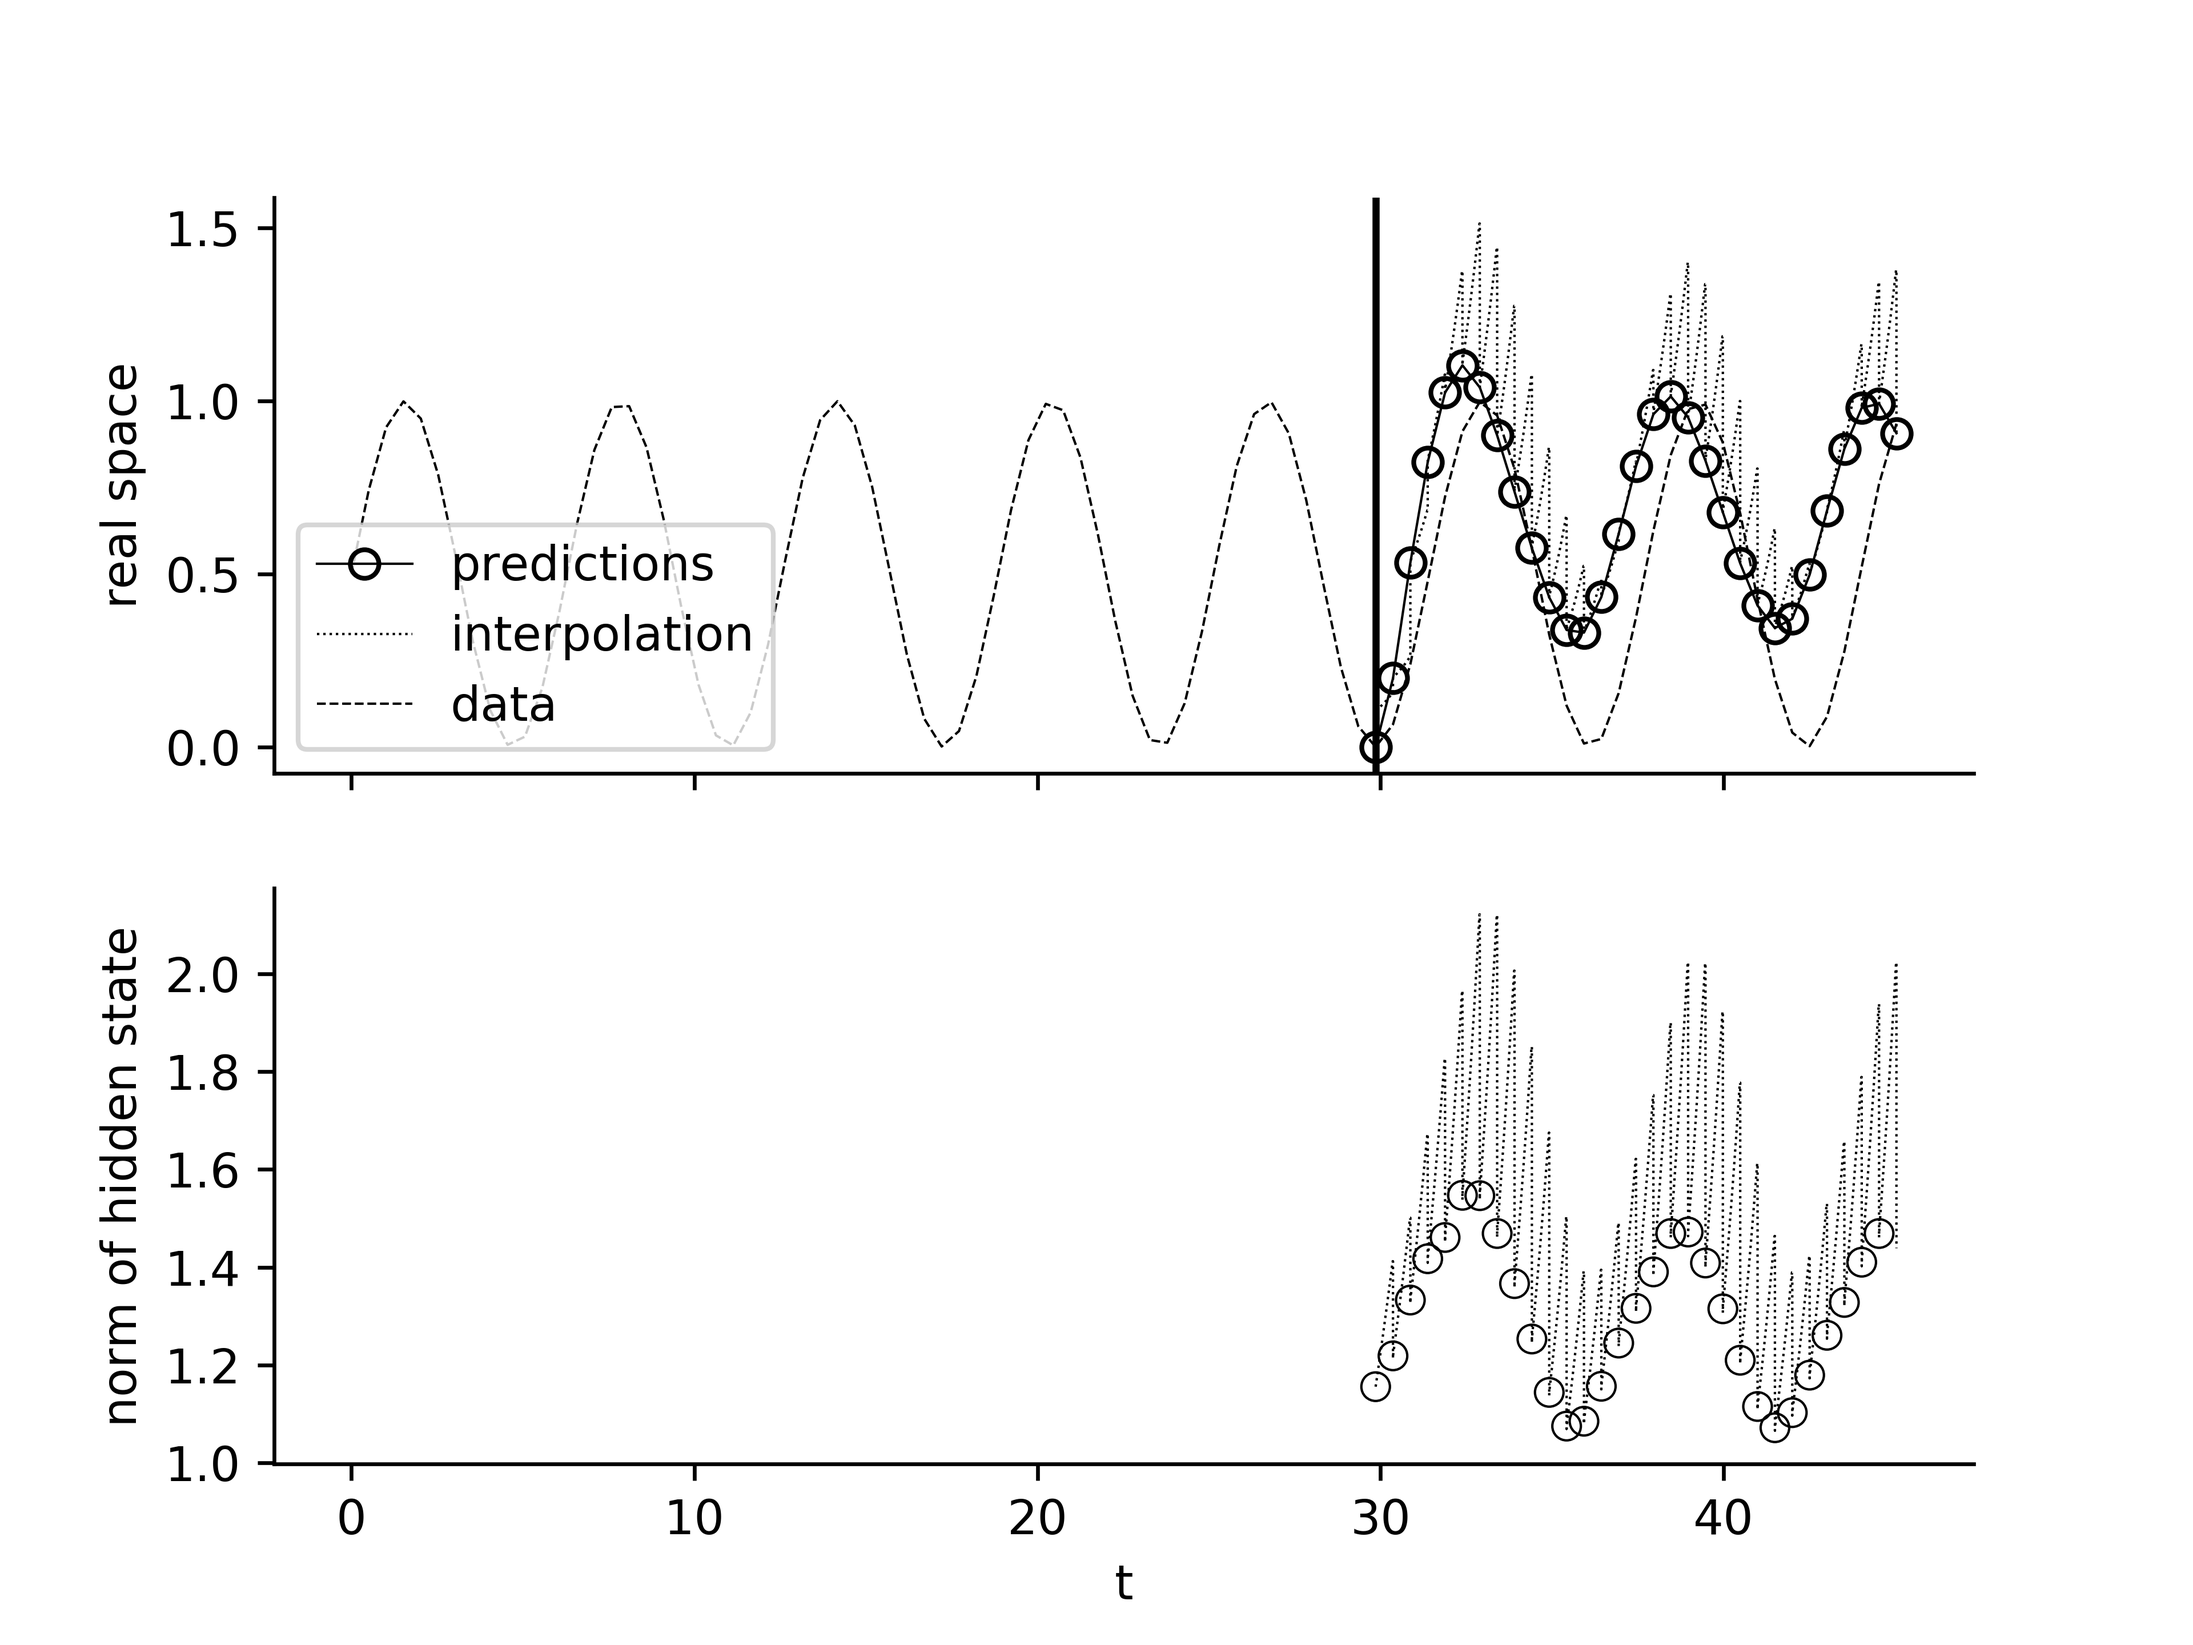
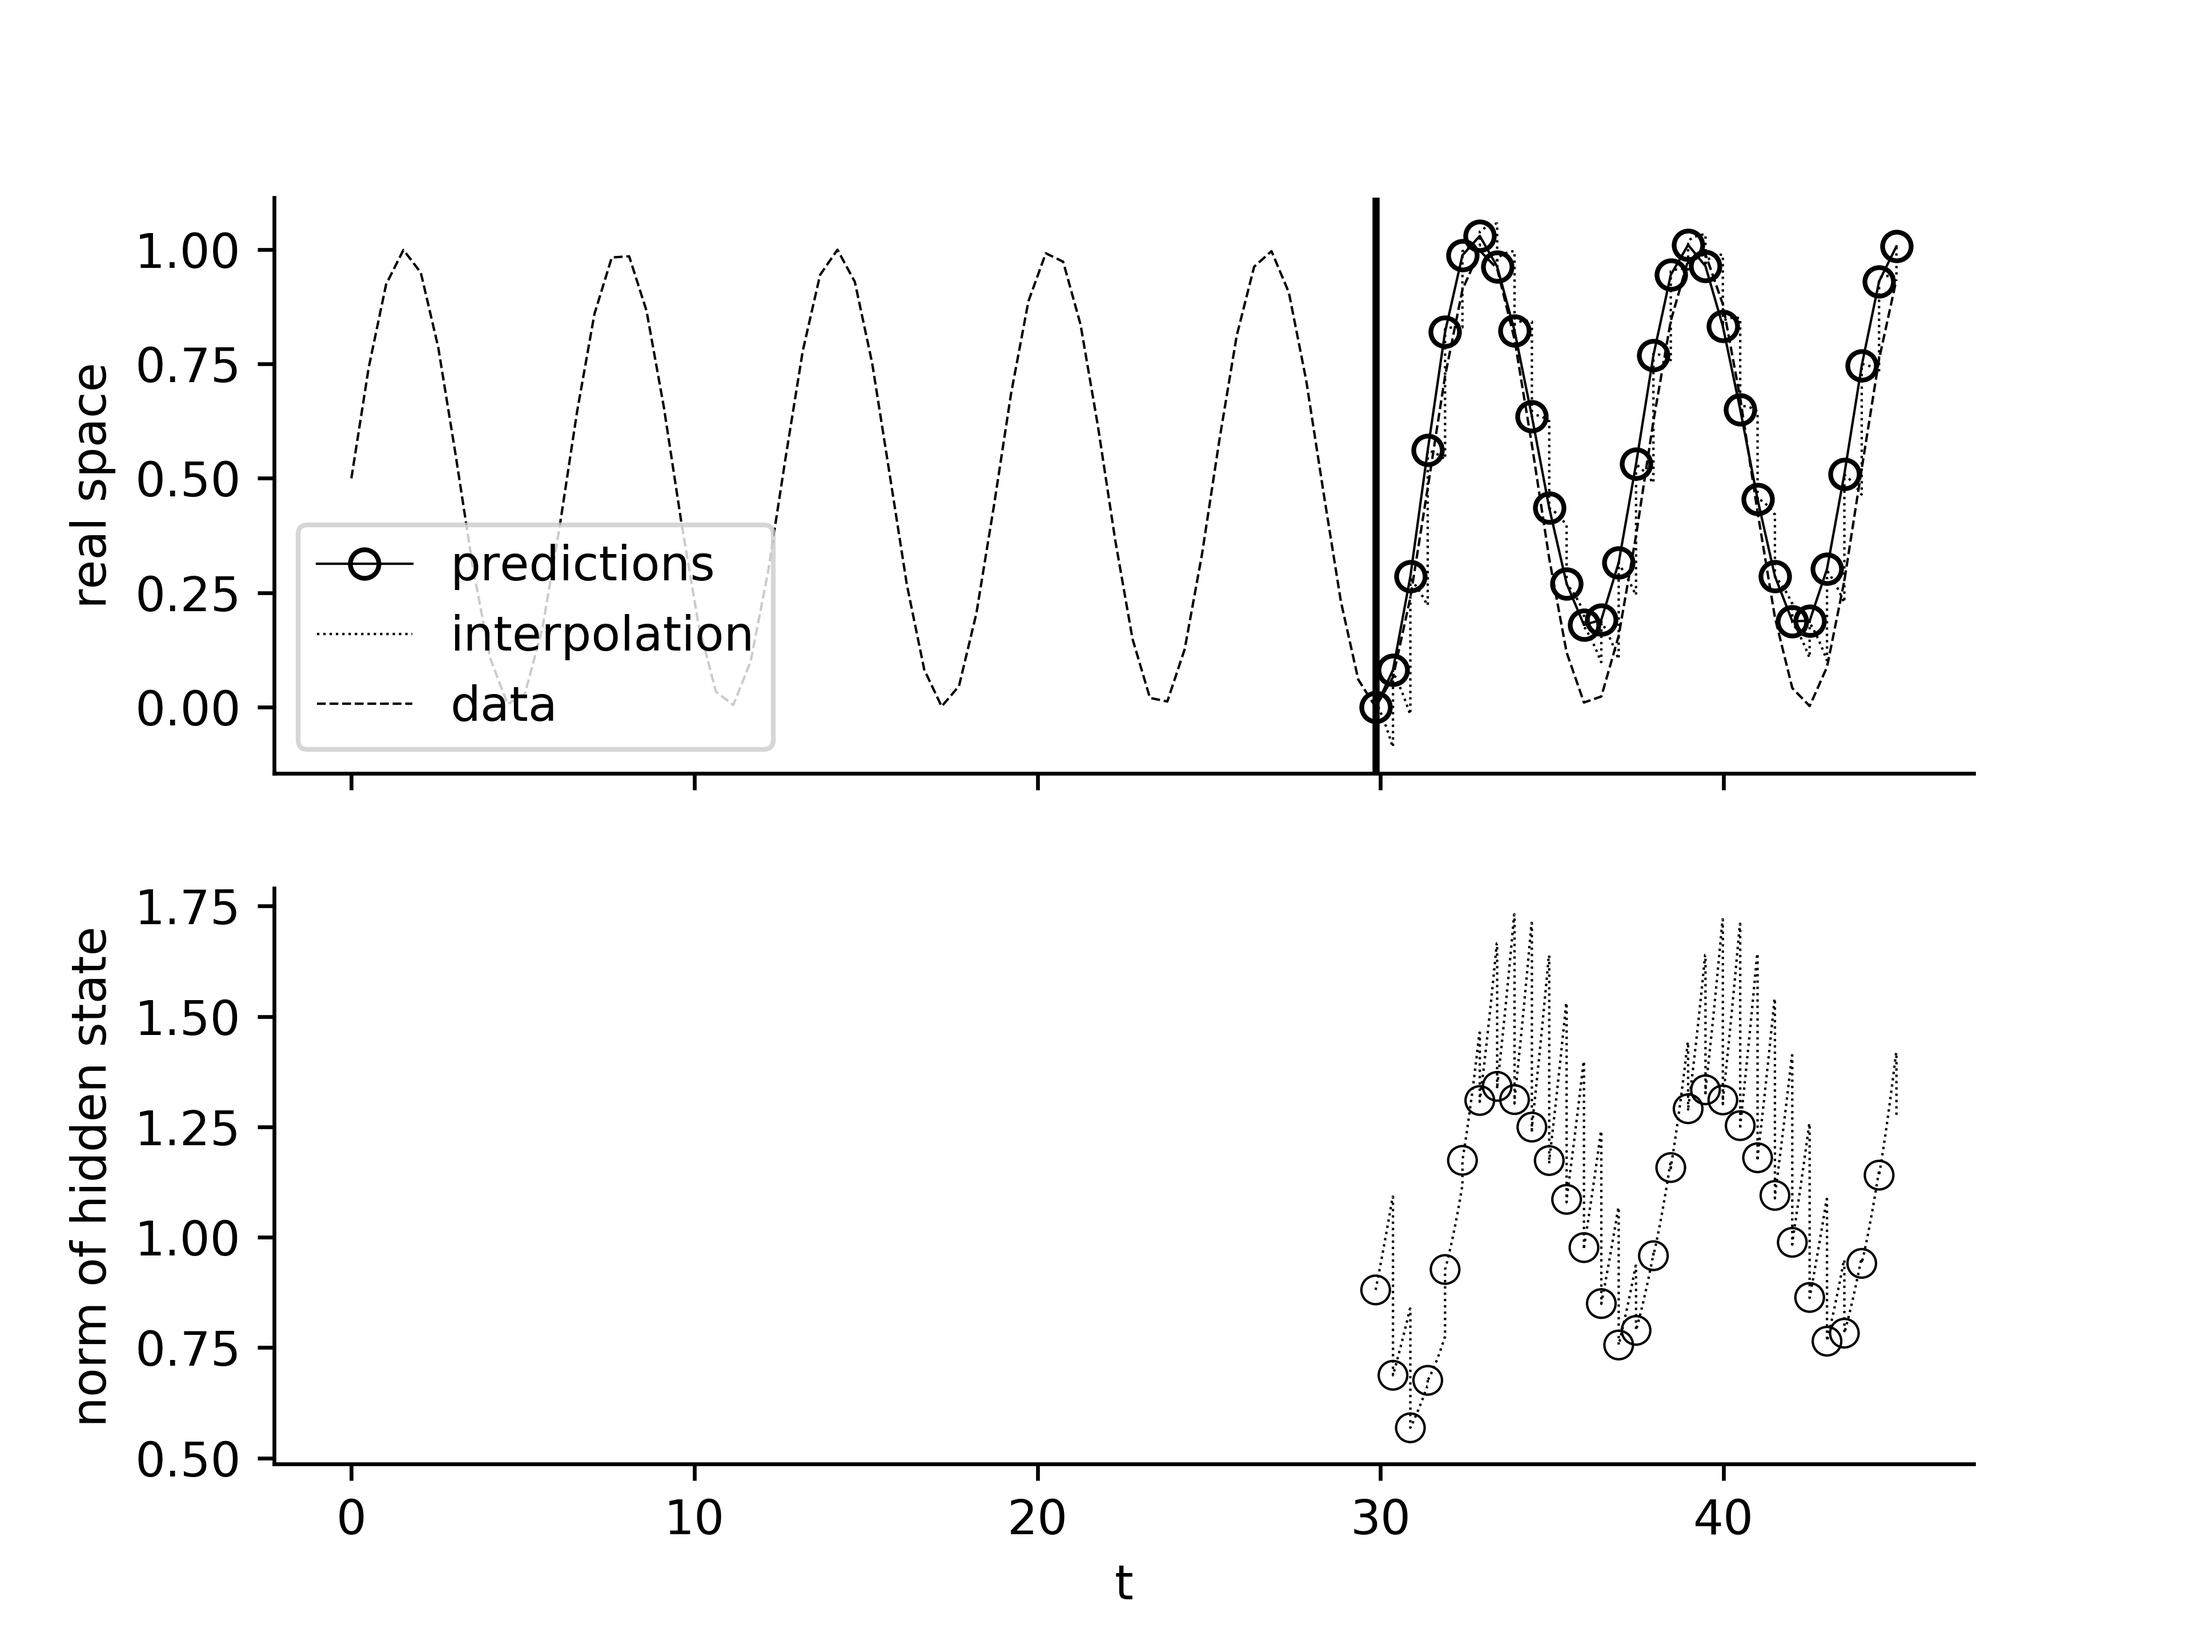
Separated NODE_RNN and ODE_RNN
- Just realized they're separate things lmao

diff --git a/networks/ode_rnn.py b/networks/ode_rnn.py
@@ -5,7 +5,7 @@ import torch.nn as nn
 from utils.linear import Linear
 from crossbar.crossbar import crossbar
 from utils.observer import Observer
-from networks.ode_net import ODE_Net
+from networks.node_rnn import NODE_RNN
 
 class ODE_RNN(nn.Module):
 
@@ -14,58 +14,23 @@ class ODE_RNN(nn.Module):
         super(ODE_RNN, self).__init__()
 
         self.N = time_steps
-
-        self.observer = Observer()
         self.cb = crossbar(device_params)
 
         # Construct model and layers
-        self.input_size = input_size
-        self.linear_in = Linear(input_size, hidden_layer_size, self.cb)
-
-        self.hidden_layer_size = hidden_layer_size
-        self.linear_hidden = Linear(hidden_layer_size, hidden_layer_size, self.cb)
+        self.node_rnn = NODE_RNN(input_size, hidden_layer_size, self.cb, self.N)
 
         self.output_size = output_size
         self.linear_out = Linear(hidden_layer_size, output_size, self.cb)
 
-        self.solve = ODE_Net(hidden_layer_size, self.N, self.cb, self.observer)
-        self.nonlinear = nn.Tanh()
-
     # Taking a sequence, this predicts the next N points, where
-    def forward(self, x, t):
-
-        h_i = torch.zeros(self.hidden_layer_size, 1)
-
-        for i, x_i in enumerate(x):
-            if i == (len(x) - 1) and self.observer.on == True:
-                self.solve.observer_flag = True
-            
-            h_i = self.solve(h_i, t[i-1] if i>0 else t[i], t[i])
-            
-            if i == (len(x) - 1):
-                self.observer.append(h_i.view(1, -1), t[i])
-
-            h_i = self.nonlinear(self.linear_in(x_i) + self.linear_hidden(h_i))
-
-            if i == (len(x) - 1):
-                self.observer.append(h_i.view(1, -1), t[i])
-
-            self.solve.observer_flag = False
-
-        return self.linear_out(h_i)
+    def forward(self, data):
+        return self.linear_out(self.node_rnn(*data))
 
     def remap(self):
         self.cb.clear()
-        self.linear_in.remap()
-        self.linear_hidden.remap()
-        self.solve.remap()
-        self.linear_out.remap()
+        self.node_rnn.remap()
+        self.linear.remap()
     
     def use_cb(self, state):
-        self.linear_in.use_cb(state)
-        self.linear_hidden.use_cb(state)
-        self.solve.use_cb(state)
-        self.linear_out.use_cb(state)
-
-    def observe(self, state):
-        self.observer.on = state
+        self.node_rnn.use_cb(state)
+        self.linear.use_cb(state)

diff --git a/networks/node_rnn.py b/networks/node_rnn.py
@@ -1,0 +1,65 @@
+
+import torch
+import torch.nn as nn
+
+from utils.linear import Linear
+from crossbar.crossbar import crossbar
+from utils.observer import Observer
+from networks.ode_net import ODE_Net
+
+class NODE_RNN(nn.Module):
+
+    def __init__(self, input_size, hidden_layer_size, cb, time_steps):
+
+        super(NODE_RNN, self).__init__()
+
+        self.N = time_steps
+
+        self.observer = Observer()
+        self.cb = cb
+
+        # Construct model and layers
+        self.input_size = input_size
+        self.linear_in = Linear(input_size, hidden_layer_size, self.cb)
+
+        self.hidden_layer_size = hidden_layer_size
+        self.linear_hidden = Linear(hidden_layer_size, hidden_layer_size, self.cb)
+
+        self.solve = ODE_Net(hidden_layer_size, self.N, self.cb, self.observer)
+        self.nonlinear = nn.Tanh()
+
+    # Taking a sequence, this predicts the next N points, where
+    def forward(self, x, t):
+
+        h_i = torch.zeros(self.hidden_layer_size, 1)
+
+        for i, x_i in enumerate(x):
+            if i == (len(x) - 1) and self.observer.on == True:
+                self.solve.observer_flag = True
+            
+            h_i = self.solve(h_i, t[i-1] if i>0 else t[i], t[i])
+            
+            if i == (len(x) - 1):
+                self.observer.append(h_i.view(1, -1), t[i])
+
+            h_i = self.nonlinear(self.linear_in(x_i) + self.linear_hidden(h_i))
+
+            if i == (len(x) - 1):
+                self.observer.append(h_i.view(1, -1), t[i])
+
+            self.solve.observer_flag = False
+
+        return h_i
+
+    def remap(self):
+        self.linear_in.remap()
+        self.linear_hidden.remap()
+        self.solve.remap()
+    
+    def use_cb(self, state):
+        self.linear_in.use_cb(state)
+        self.linear_hidden.use_cb(state)
+        self.solve.use_cb(state)
+
+    def observe(self, state):
+        self.observer.on = state

diff --git a/networks/ode_nn.py b/networks/ode_nn.py
@@ -1,0 +1,48 @@
+
+import torch
+import torch.nn as nn
+
+from utils.linear import Linear
+from crossbar.crossbar import crossbar
+from utils.observer import Observer
+from networks.ode_net import ODE_Net
+
+class ODE_NN(nn.Module):
+
+    def __init__(self, input_size, output_size, device_params, time_steps):
+
+        super(ODE_NN, self).__init__()
+
+        self.observer = Observer()
+        self.cb = crossbar(device_params)
+
+        # Construct model and layers
+        self.hidden_layer_size = hidden_layer_size
+        self.linear_hidden = Linear(input_size, output_size, self.cb)
+
+        self.solve = ODE_Net(input_size, self.N, self.cb, self.observer)
+        self.nonlinear = nn.Tanh()
+
+    # Taking a sequence, this predicts the next N points, where
+    def forward(self, x, t):
+
+        h_i = torch.zeros(self.input_size, 1)
+
+        for i, x_i in enumerate(x):
+            if i == (len(x) - 1) and self.observer.on == True:
+                self.solve.observer_flag = True
+            
+            h_i = self.solve(h_i, t[i-1] if i>0 else t[i], t[i])
+            
+            if i == (len(x) - 1):
+                self.observer.append(h_i.view(1, -1), t[i])
+
+            h_i = self.nonlinear(self.linear_in(x_i) + self.linear_hidden(h_i))
+
+            if i == (len(x) - 1):
+                self.observer.append(h_i.view(1, -1), t[i])
+
+            self.solve.observer_flag = False
+
+        return self.linear_out(h_i)
+

diff --git a/train.py b/train.py
@@ -13,7 +13,7 @@ def train(examples, model, epochs):
         for i, (example, label) in enumerate(examples):
             
             optimizer.zero_grad()
-            prediction = model(*example)
+            prediction = model(example)
             loss = loss_function(prediction, label)
             epoch_loss.append(loss)
             loss.backward()
@@ -32,7 +32,7 @@ def test(seq, t, length, model):
     
     with torch.no_grad():
         for i in range(length):
-            prediction = model(*(seq, t + dt)).reshape(1, -1, 1)
+            prediction = model((seq, t + dt)).reshape(1, -1, 1)
             seq = torch.cat((seq[1:], prediction), axis=0)
             all_t.append(t[-1].unsqueeze(0) + dt.unsqueeze(0))
             t = torch.cat((t[1:], t[-1].unsqueeze(0) + dt.unsqueeze(0)), axis=0)

diff --git a/fig5.py b/fig5.py
@@ -86,7 +86,7 @@ for i in range(1):
 
     model = ODE_RNN(1, 4, 1, device_params, time_steps)
     losses = train.train(train_data, model, epochs)
-    model.observe(True)
+    model.node_rnn.observe(True)
     # model.use_cb(True)
 
     output, times = train.test(
@@ -109,11 +109,11 @@ for i in range(1):
              )
 
     # Interpolation data
-    H = model.observer.history[0].detach()
-    t = model.observer.history[1].view(-1).detach()
+    H = model.node_rnn.observer.history[0].detach()
+    t = model.node_rnn.observer.history[1].view(-1).detach()
 
     ax1.plot(t,
-             model.linear_out(torch.transpose(H, 0, 1)).view(-1).detach(),
+             model.linear(torch.transpose(H, 0, 1)).view(-1).detach(),
              ':',
              linewidth=0.5,
              color='k')
